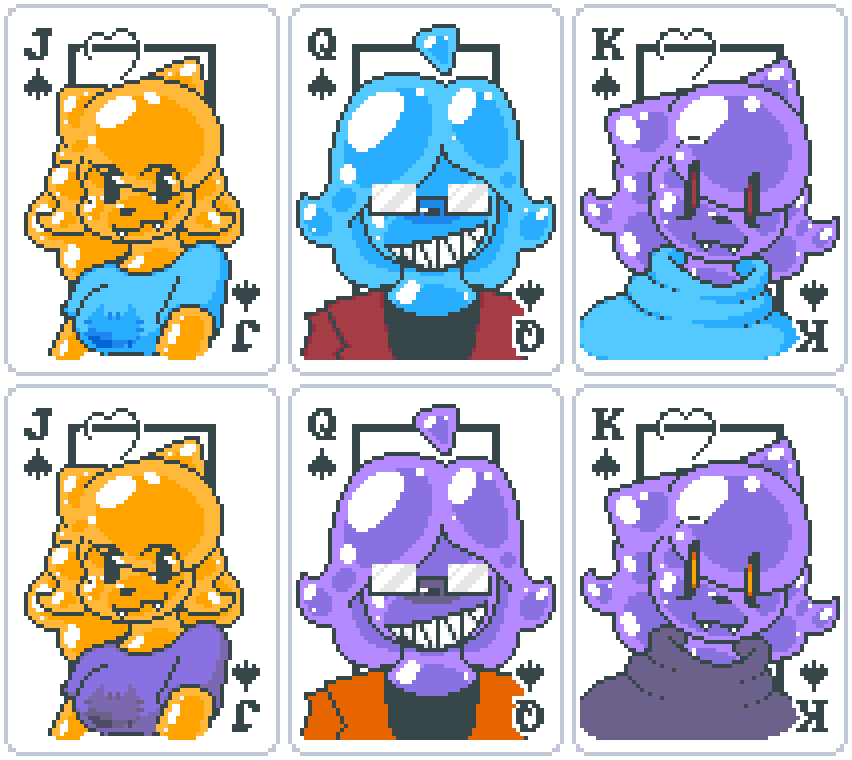
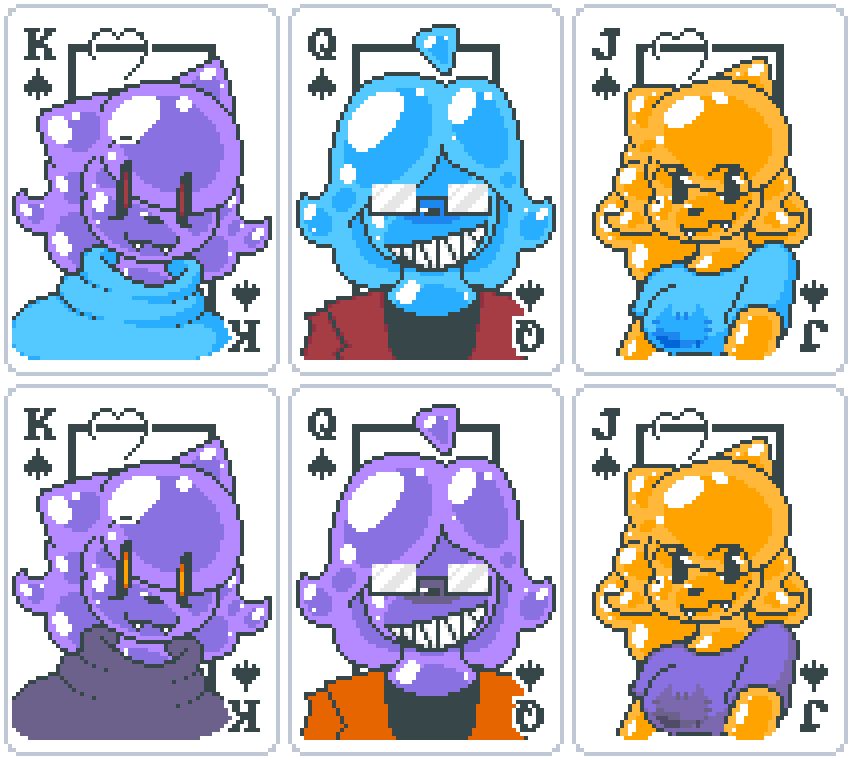
added smods guide and swapped k/j around

diff --git a/doodads.html b/doodads.html
@@ -16,10 +16,11 @@
         <div>
 			<h2>cheshire in balatro.</h2>
             <p>because that's what balatro needed - more murderous slime cats.</p>
-			<a href="thingies/mods/cheshire.zip">download</a>
+			<br><p>to download the mod, you need <a href="https://github.com/Steamodded/smods/">Steamodded</a> installed. follow the guide on their github to set everything up.</p>
             <img src="thingies/mods/cheshire.png"/>
+			<a href="thingies/mods/cheshire.zip">download mod.</a>
 		</div>
 		<p>ellestuff.</p>
 	</body>
 </html>
-<script src="wallpapers.js"></script> 
+<script src="wallpapers.js"></script>
